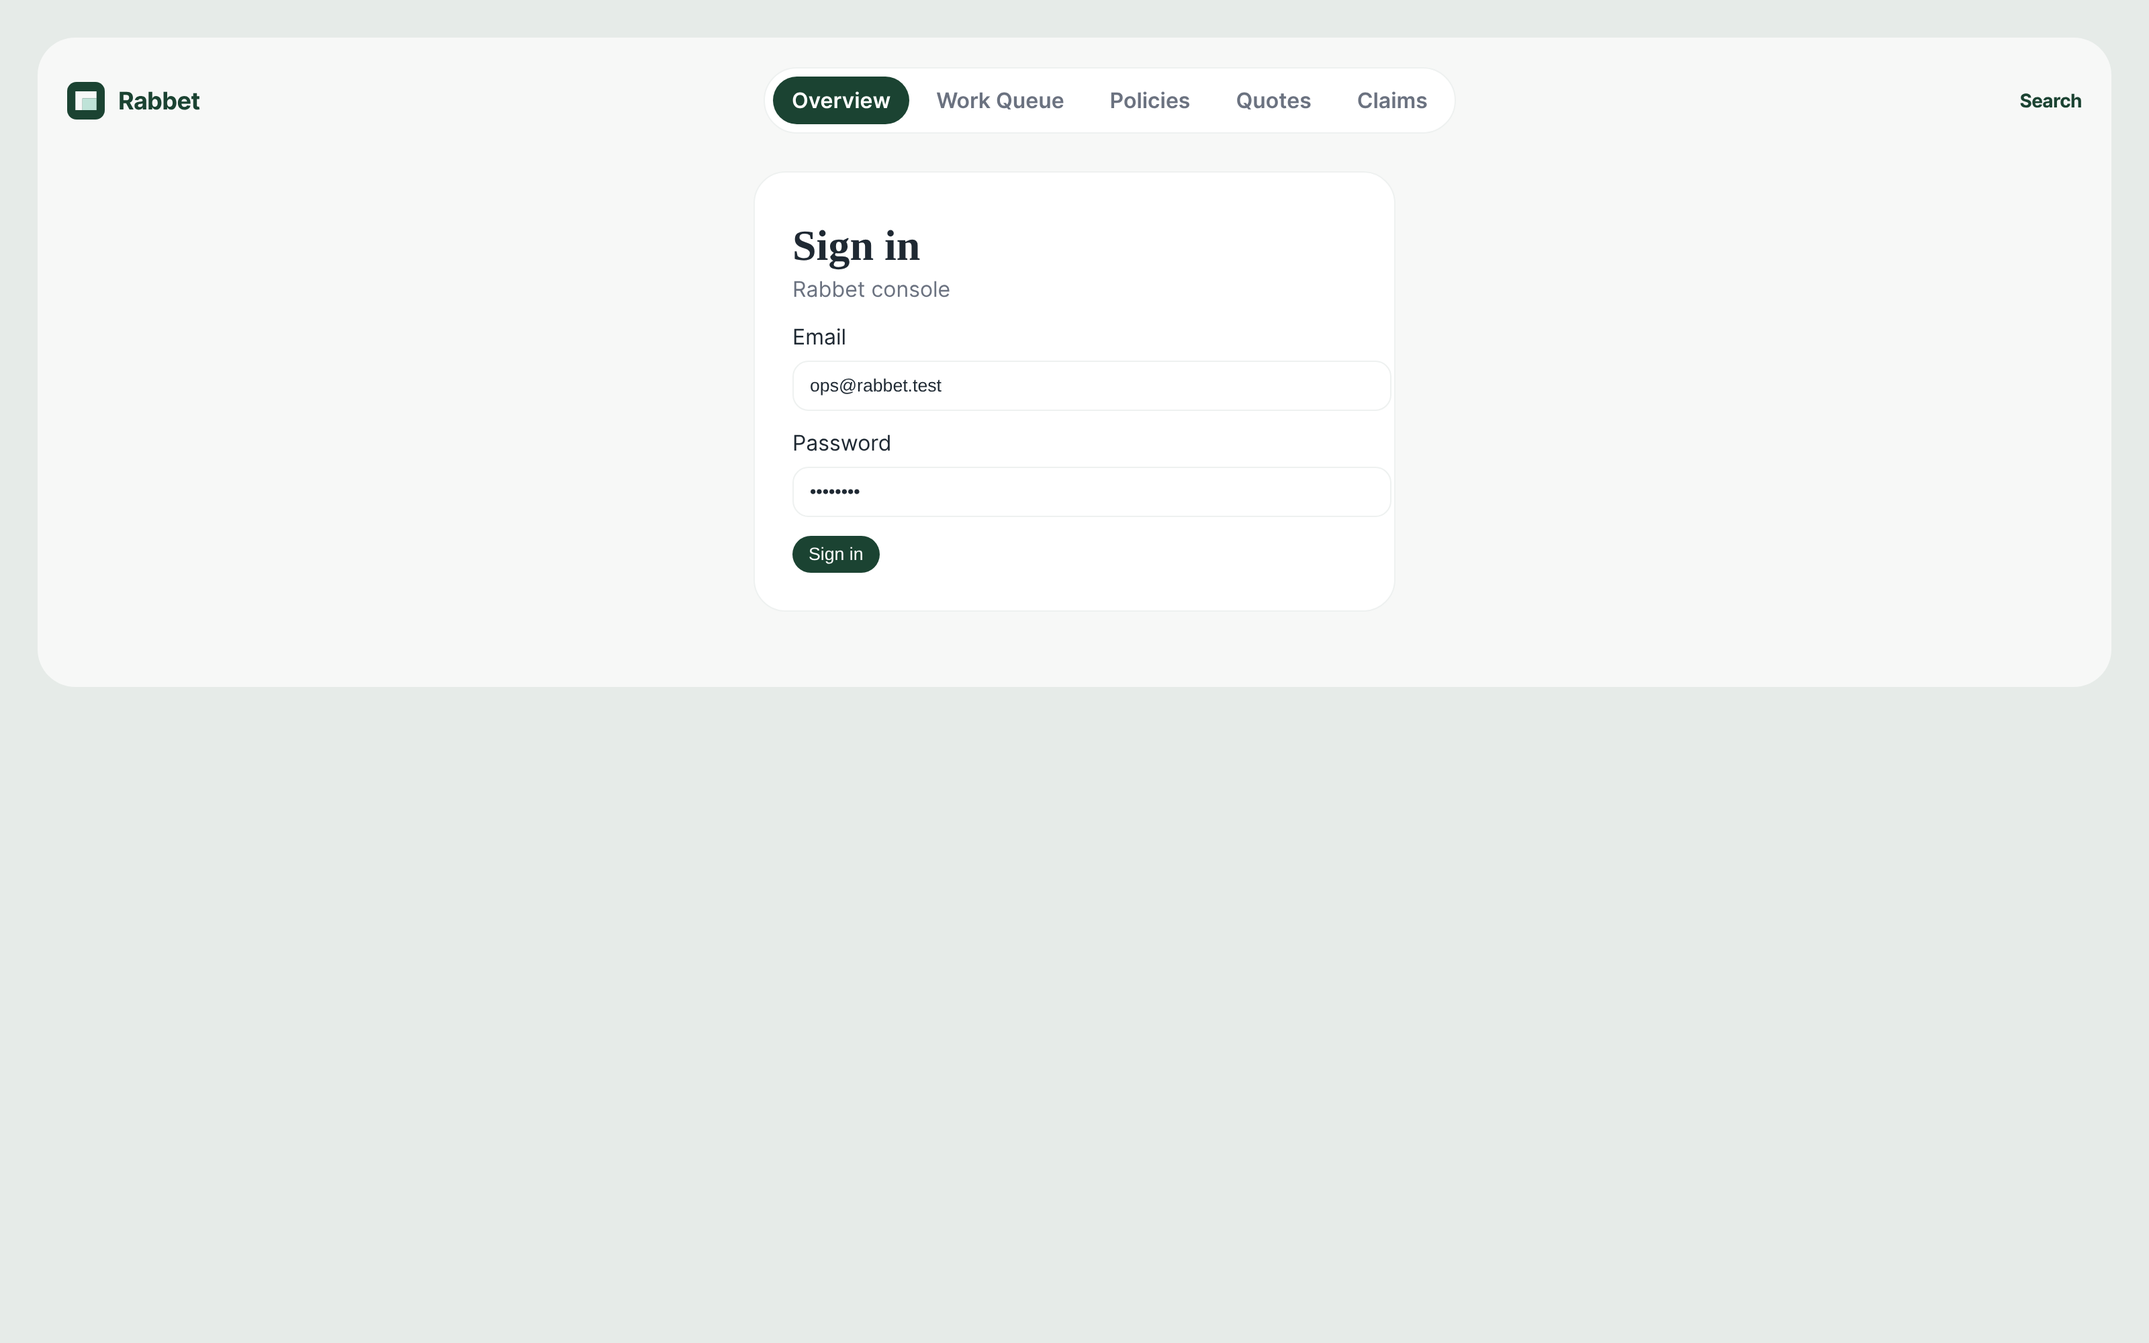
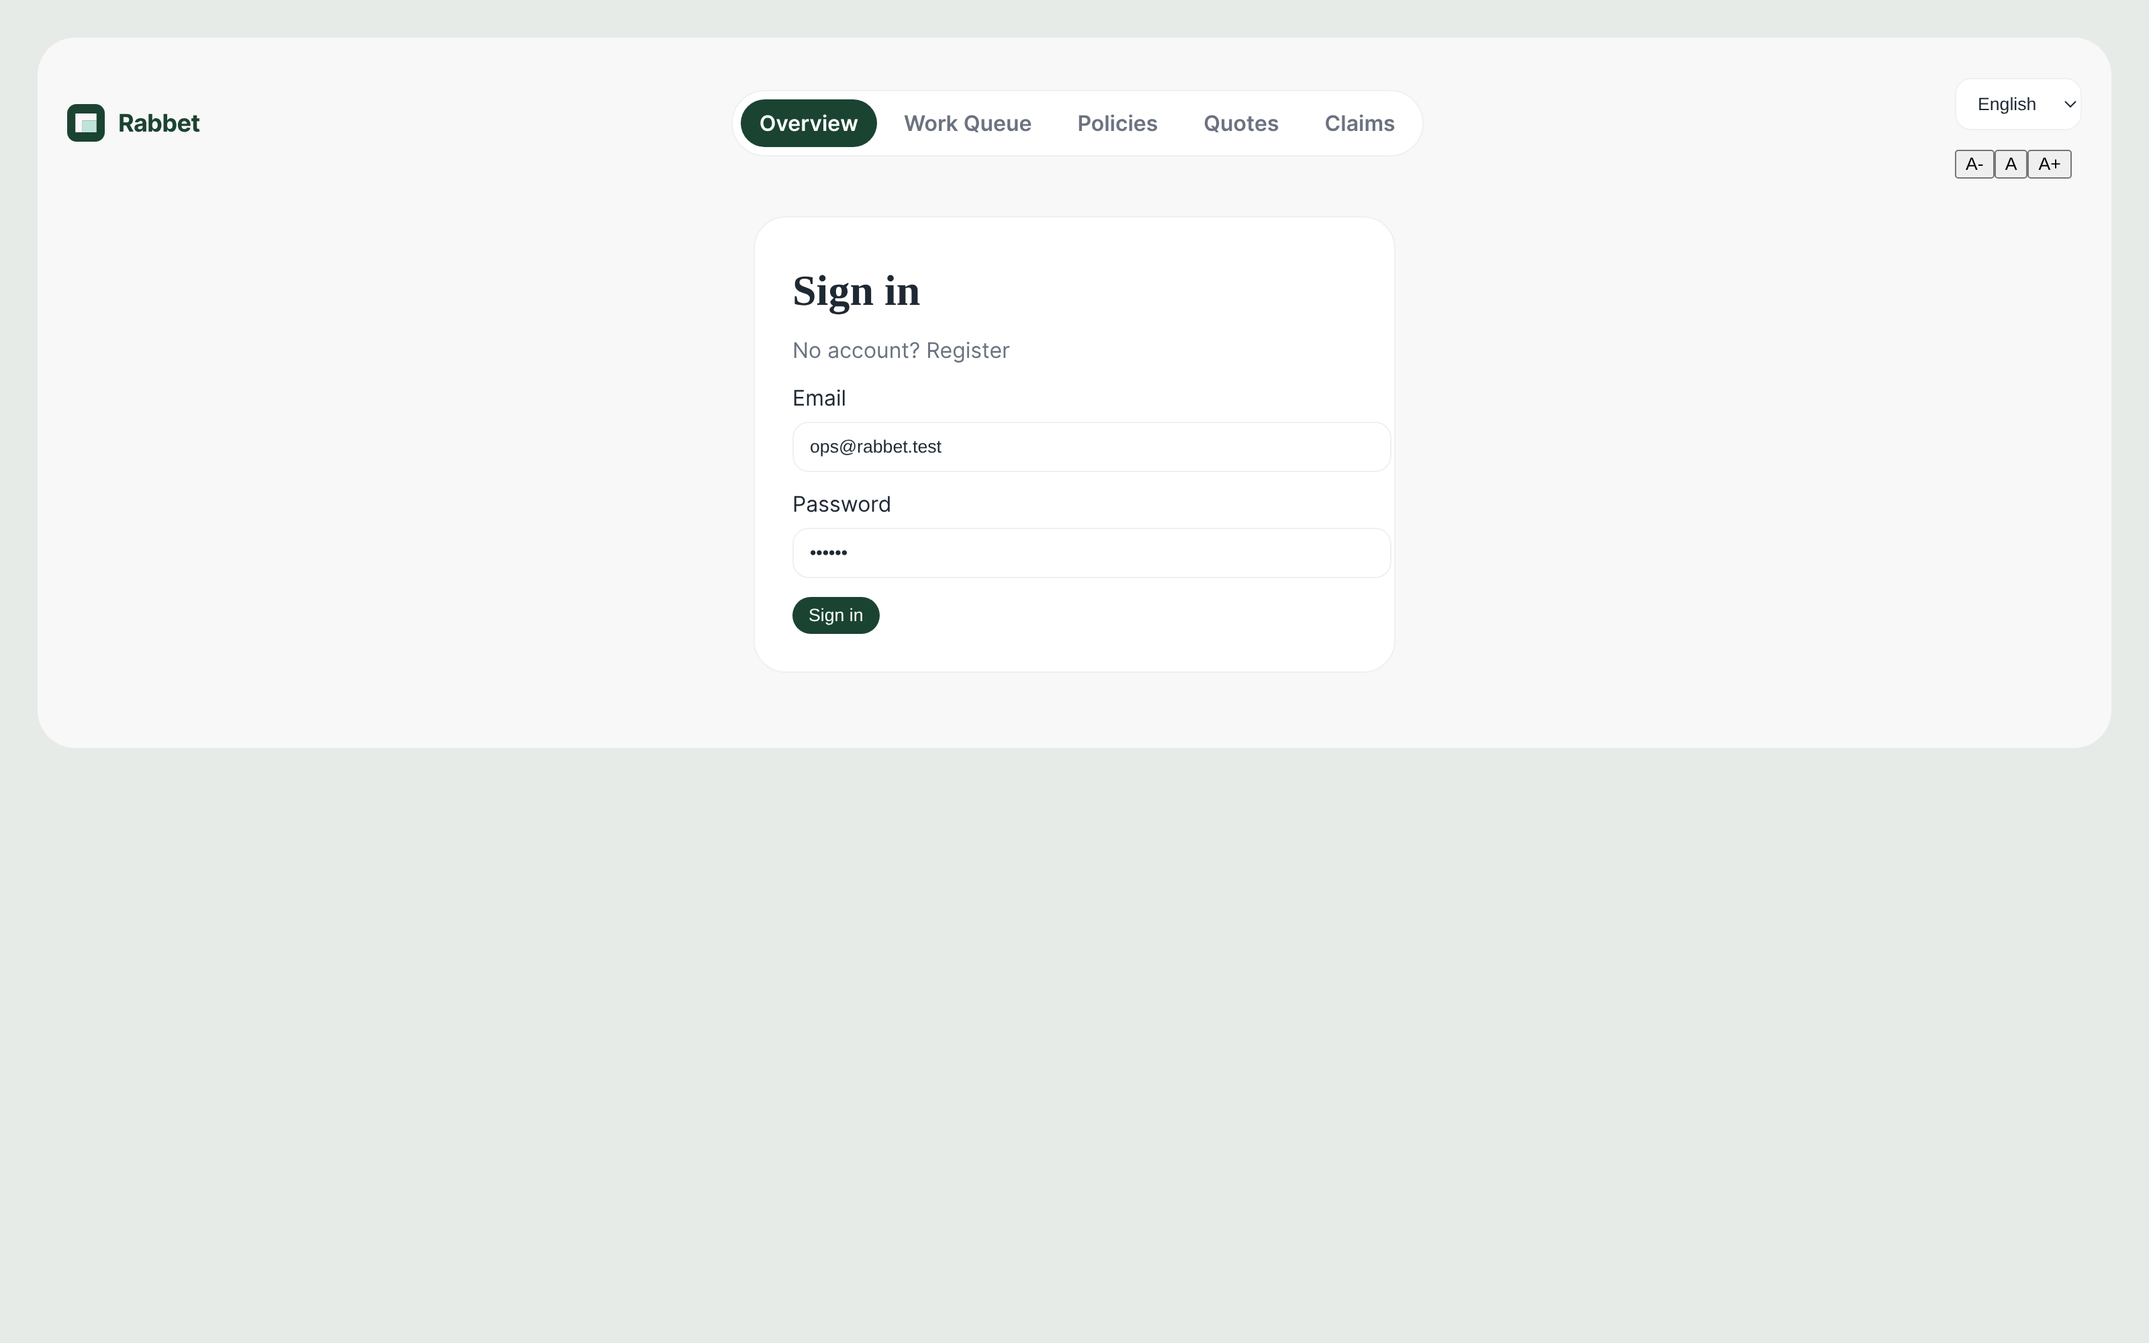
Show every Rabbet feature and a light/dark comparison

diff --git a/rabbet-theme/index.html b/rabbet-theme/index.html
@@ -4,127 +4,128 @@
   <meta charset="utf-8">
   <meta name="viewport" content="width=device-width, initial-scale=1">
   <title>Rabbet — Filament 5 theme and starter kit</title>
-  <meta name="description" content="Rabbet is a forest-green Filament 5 theme. Buy the shell, or the shell plus the operations starter kit. Four licenses.">
+  <meta name="description" content="Rabbet is a forest-green Filament 5 theme with a starter kit, language switcher, zoom, audit log, notifications, roles, and themed sign-in.">
   <link rel="canonical" href="https://skillbobby.github.io/spiggle/rabbet-theme/">
-  <meta property="og:title" content="Rabbet for Filament 5">
-  <meta property="og:description" content="Theme only, or theme plus starter kit. Four licenses.">
   <meta property="og:image" content="https://skillbobby.github.io/spiggle/rabbet-theme/screenshots/overview-light.png">
-  <link rel="preconnect" href="https://fonts.googleapis.com">
   <link href="https://fonts.googleapis.com/css2?family=Inter:wght@400;500;600;700&family=Source+Serif+4:opsz,wght@8..60,600&display=swap" rel="stylesheet">
   <style>
-    :root { --bg:#e7eeea; --card:#fff; --ink:#1c2822; --muted:#5f6f68; --line:#dfe7e3; --primary:#1b4332; --soft:#e7f3ec; }
+    :root { --bg:#e7eeea; --card:#fff; --ink:#1c2822; --muted:#5f6f68; --line:#dfe7e3; --primary:#1b4332; }
     * { box-sizing:border-box; }
     body { margin:0; font-family:Inter,system-ui,sans-serif; background:var(--bg); color:var(--ink); }
     a { color:var(--primary); }
     header, main { width:min(1120px,calc(100% - 32px)); margin:0 auto; }
-    header { display:flex; justify-content:space-between; align-items:center; padding:22px 0; }
-    .brand { display:flex; align-items:center; gap:10px; font-weight:700; color:var(--ink); text-decoration:none; }
-    .nav { display:flex; gap:18px; align-items:center; }
+    header { display:flex; justify-content:space-between; align-items:center; padding:22px 0; gap:16px; }
+    .brand, .nav { display:flex; align-items:center; gap:16px; }
+    .brand { font-weight:700; color:var(--ink); text-decoration:none; }
     .nav a { text-decoration:none; color:var(--muted); font-weight:600; }
     .btn { background:var(--primary); color:#fff; text-decoration:none; border-radius:999px; padding:10px 16px; font-weight:600; display:inline-block; }
-    .btn.ghost { background:#fff; color:var(--primary); border:1px solid var(--line); }
-    h1 { font-family:"Source Serif 4",Georgia,serif; font-size:clamp(2.4rem,5vw,4rem); letter-spacing:-.03em; line-height:1.05; margin:10px 0; }
-    .lead { color:var(--muted); font-size:1.08rem; max-width:40rem; }
-    .hero-actions { display:flex; gap:10px; flex-wrap:wrap; margin:22px 0; }
-    .frame { background:#fff; border:1px solid var(--line); border-radius:28px; padding:10px; box-shadow:0 24px 50px rgba(27,67,50,.08); }
-    .frame img { width:100%; height:auto; border-radius:20px; display:block; }
-    .switch { display:flex; gap:8px; margin:14px 0; }
-    .switch button { border:1px solid var(--line); background:#fff; border-radius:999px; padding:8px 14px; font-weight:600; cursor:pointer; }
-    .switch button.on { background:var(--primary); color:#fff; border-color:var(--primary); }
-    section { padding:64px 0 10px; }
-    h2 { font-family:"Source Serif 4",Georgia,serif; font-size:2rem; letter-spacing:-.03em; }
-    .grid { display:grid; grid-template-columns:repeat(auto-fit,minmax(240px,1fr)); gap:16px; }
-    article { background:var(--card); border:1px solid var(--line); border-radius:18px; padding:18px; }
-    .offers { display:grid; grid-template-columns:repeat(auto-fit,minmax(230px,1fr)); gap:14px; }
-    .offer { background:#fff; border:1px solid var(--line); border-radius:20px; padding:20px; display:flex; flex-direction:column; gap:8px; }
-    .offer.bundle { border-color:#1b4332; box-shadow:0 12px 30px rgba(27,67,50,.08); }
-    .price { font-size:2.1rem; margin:0; letter-spacing:-.03em; }
-    .tag { font-size:12px; font-weight:700; letter-spacing:.06em; text-transform:uppercase; color:#1b4332; }
+    h1, h2 { font-family:"Source Serif 4",Georgia,serif; letter-spacing:-.03em; }
+    h1 { font-size:clamp(2.4rem,5vw,4rem); line-height:1.05; margin:8px 0; }
+    .lead { color:var(--muted); max-width:42rem; }
+    .sim { margin:28px 0; background:#fff; border:1px solid var(--line); border-radius:28px; padding:14px; box-shadow:0 24px 50px rgba(27,67,50,.08); }
+    .sim-bar { display:flex; justify-content:space-between; gap:12px; align-items:center; margin-bottom:12px; }
+    .sim-bar strong { font-size:14px; }
+    .stage { position:relative; height:min(640px,62vw); overflow:hidden; border-radius:18px; background:#101614; user-select:none; }
+    .stage img { position:absolute; inset:0; width:100%; height:100%; object-fit:cover; object-position:top; }
+    .stage .dark { clip-path: inset(0 0 0 var(--split)); }
+    .handle { position:absolute; top:0; bottom:0; left:var(--split); width:28px; transform:translateX(-50%); cursor:ew-resize; display:grid; place-items:center; }
+    .handle span { width:28px; height:28px; border-radius:99px; background:#fff; border:1px solid var(--line); box-shadow:0 6px 16px rgba(0,0,0,.15); }
+    section { padding:54px 0 8px; }
+    .shot { width:100%; border-radius:22px; border:1px solid var(--line); margin:14px 0 8px; }
+    .grid, .offers { display:grid; grid-template-columns:repeat(auto-fit,minmax(230px,1fr)); gap:14px; }
+    article, .offer { background:var(--card); border:1px solid var(--line); border-radius:18px; padding:18px; }
+    .offer.bundle { border-color:var(--primary); }
+    .price { font-size:2rem; margin:6px 0; }
     pre { background:#17211d; color:#e7eee9; border-radius:16px; padding:16px; overflow:auto; }
-    footer { color:var(--muted); padding:40px 0 64px; }
+    footer { color:var(--muted); padding:36px 0 64px; }
   </style>
 </head>
 <body>
   <header>
-    <a class="brand" href="./">
-      <svg width="28" height="28" viewBox="0 0 32 32" aria-hidden="true"><rect width="32" height="32" rx="8" fill="#1B4332"/><path d="M7 8h18v6H13v10H7V8z" fill="#F7F8F7"/><path d="M13 14h12v10H13V14z" fill="#BFE3D8"/></svg>
-      Rabbet
-    </a>
-    <nav class="nav">
-      <a href="#shell">Theme</a>
-      <a href="#kit">Starter kit</a>
-      <a href="#offers">Offers</a>
-      <a class="btn" href="#offers">See licenses</a>
-    </nav>
+    <a class="brand" href="./"><svg width="28" height="28" viewBox="0 0 32 32" aria-hidden="true"><rect width="32" height="32" rx="8" fill="#1B4332"/><path d="M7 8h18v6H13v10H7V8z" fill="#F7F8F7"/><path d="M13 14h12v10H13V14z" fill="#BFE3D8"/></svg> Rabbet</a>
+    <nav class="nav"><a href="#shell">Theme</a><a href="#kit">Kit</a><a href="#offers">Offers</a><a class="btn" href="#offers">Licenses</a></nav>
   </header>
   <main>
-    <p class="tag">Filament 5 · one page, two products</p>
-    <h1>The forest-green shell, with the book of business if you want it.</h1>
-    <p class="lead">Rabbet is the theme. The starter kit is the same console with Overview, Work Queue, Policies, Quotes, and Claims. Buy the shell, or buy both.</p>
-    <div class="hero-actions">
-      <a class="btn" href="#offers">Four licenses</a>
-      <a class="btn ghost" href="https://github.com/skillbobby/Spiggle-Rabbet-Theme">Theme source</a>
-    </div>
-    <div class="switch" role="tablist">
-      <button class="on" id="light-btn" type="button">Light</button>
-      <button id="dark-btn" type="button">Dark</button>
-    </div>
-    <div class="frame">
-      <img id="hero" src="screenshots/overview-light.png" alt="Rabbet overview with the Rabbet mark, pill navigation, and metric cards" width="1600" height="1000">
+    <p>Filament 5 · theme or theme plus starter kit</p>
+    <h1>A forest-green shell, with the book of business if you want it.</h1>
+    <p class="lead">Drag the preview to compare light and dark. The same page covers the shell, the starter kit, language, zoom, audit, notifications, and roles.</p>
+    <div class="sim">
+      <div class="sim-bar"><strong>Preview</strong><span>Light on the left, dark on the right</span></div>
+      <div class="stage" id="stage" style="--split:50%">
+        <img src="screenshots/overview-light.png" alt="Rabbet light overview with the Rabbet mark">
+        <img class="dark" src="screenshots/overview-dark.png" alt="Rabbet dark overview with the Rabbet mark">
+        <div class="handle" id="handle" role="slider" aria-label="Compare light and dark" aria-valuemin="8" aria-valuemax="92" aria-valuenow="50" tabindex="0"><span></span></div>
+      </div>
     </div>
 
     <section id="shell">
-      <h2>Theme only</h2>
-      <p class="lead">Colors, Inter, Source Serif, pill navigation, light and dark, login, tables, and alerts. No models. No seed data.</p>
+      <h2>Theme</h2>
       <div class="grid">
-        <article><h3>Pill navigation</h3><p>Forest-green active item, quiet inactive items, Rabbet mark in the bar.</p></article>
-        <article><h3>Light and dark</h3><p>Canvas, shell, card, ink, and status colors for both schemes.</p></article>
-        <article><h3>Switcher ready</h3><p>Registers as <code>spiggle-rabbet-theme</code> and paints only while selected.</p></article>
+        <article><h3>Brand</h3><p>The mark and logo text render in the panel. Theme options replace the text and accept a PNG, WebP, JPG, or SVG icon.</p></article>
+        <article><h3>Language and zoom</h3><p>English, Español, Français, and Português in the session. A− / A / A+ zoom stays in the browser.</p></article>
+        <article><h3>List view</h3><p>Tables can switch to an alphabetical list without a second resource.</p></article>
+        <article><h3>Mobile</h3><p>The pill nav scrolls, controls stay at least 44px, and wide tables scroll sideways.</p></article>
       </div>
-      <div class="frame" style="margin-top:18px"><img src="screenshots/login.png" alt="Rabbet sign-in screen with the Rabbet mark" width="1600" height="1000"></div>
+      <img class="shot" src="screenshots/theme-options.png" alt="Rabbet theme options with logo text and icon">
+      <img class="shot" src="screenshots/list-view.png" alt="Rabbet table and list toggle">
+    </section>
+
+    <section>
+      <h2>Sign in and register</h2>
+      <p class="lead">The theme renders both auth pages. Each links to the other.</p>
+      <img class="shot" src="screenshots/login.png" alt="Rabbet sign in">
+      <img class="shot" src="screenshots/register.png" alt="Rabbet registration">
+    </section>
+
+    <section>
+      <h2>Audit, notifications, roles</h2>
+      <p class="lead">A resource change writes an audit row and a notification linked to that row. Roles gate audit, notifications, roles, and theme options. A user with no role is not locked out.</p>
+      <img class="shot" src="screenshots/audit.png" alt="Rabbet audit log">
+      <img class="shot" src="screenshots/notifications.png" alt="Rabbet notifications linked to audit events">
+      <img class="shot" src="screenshots/roles.png" alt="Rabbet roles and permissions">
     </section>
 
     <section id="kit">
       <h2>Starter kit</h2>
-      <p class="lead">The same shell, plus the operations screens and the reference book. It requires the theme and registers it if the panel does not already have it.</p>
-      <div class="grid">
-        <article><h3>Overview</h3><p>SLA at risk, backlog, underwriting blocked, and high-priority claims from the database.</p></article>
-        <article><h3>Work, policies, quotes</h3><p>Resources and queue pages, not hardcoded cards.</p></article>
-        <article><h3>Claims</h3><p>Breached, due soon, and unassigned tabs, with assign on the stored rows.</p></article>
-      </div>
-      <div class="frame" style="margin-top:18px"><img src="screenshots/claims.png" alt="Rabbet claims queue with the Rabbet mark" width="1600" height="1000"></div>
-      <div class="frame"><img src="screenshots/policies.png" alt="Rabbet policies table with the Rabbet mark" width="1600" height="1000"></div>
+      <p class="lead">Overview, work queue, policies, quotes, and claims. The kit registers the theme if the panel does not already have it.</p>
+      <img class="shot" src="screenshots/overview-light.png" alt="Rabbet starter kit overview">
     </section>
 
     <section id="offers">
       <h2>Four offers</h2>
-      <p class="lead">Theme only keeps the existing licenses. The bundle is the theme plus the starter kit, billed yearly, with one year of updates and security patches.</p>
       <div class="offers">
-        <article class="offer"><span class="tag">Theme only</span><p class="price">$19</p><strong>One project</strong><p>The shell. Existing license.</p><a class="btn" href="https://x.com/iamspiggle">Request</a></article>
-        <article class="offer"><span class="tag">Theme only</span><p class="price">$49</p><strong>Unlimited projects</strong><p>The shell, for projects you own. Existing license.</p><a class="btn" href="https://x.com/iamspiggle">Request</a></article>
-        <article class="offer bundle"><span class="tag">Bundle</span><p class="price">$29<span style="font-size:1rem">/yr</span></p><strong>One project</strong><p>Theme and starter kit. One year of updates and security patches.</p><a class="btn" href="https://x.com/iamspiggle">Request</a></article>
-        <article class="offer bundle"><span class="tag">Bundle</span><p class="price">$79<span style="font-size:1rem">/yr</span></p><strong>Unlimited projects</strong><p>Theme and starter kit for projects you own. One year of updates and security patches.</p><a class="btn" href="https://x.com/iamspiggle">Request</a></article>
+        <article class="offer"><p class="price">$19</p><strong>Theme, one project</strong><p>Existing license.</p></article>
+        <article class="offer"><p class="price">$49</p><strong>Theme, unlimited</strong><p>Projects you own. Existing license.</p></article>
+        <article class="offer bundle"><p class="price">$29/yr</p><strong>Bundle, one project</strong><p>Theme and starter kit. One year of updates and security patches.</p></article>
+        <article class="offer bundle"><p class="price">$79/yr</p><strong>Bundle, unlimited</strong><p>Theme and starter kit for projects you own. One year of updates and security patches.</p></article>
       </div>
-    </section>
-
-    <section id="install">
-      <h2>Install</h2>
-      <p>Theme only:</p>
+      <p><a class="btn" href="https://x.com/iamspiggle">Request a license</a></p>
       <pre><code>composer require spiggle/rabbet-theme
-->plugin(\Spiggle\FilamentRabbetTheme\RabbetThemePlugin::make())</code></pre>
-      <p>Bundle:</p>
-      <pre><code>composer require spiggle/rabbet-starter-kit
-php artisan rabbet:install --seed
-->plugin(\Spiggle\RabbetStarterKit\RabbetStarterKitPlugin::make())</code></pre>
+->plugin(\Spiggle\FilamentRabbetTheme\RabbetThemePlugin::make())
+
+composer require spiggle/rabbet-starter-kit
+php artisan rabbet:install --seed</code></pre>
     </section>
-    <footer>Checkout is not wired yet. Write to <a href="https://x.com/iamspiggle">@iamspiggle</a> for a license. Theme repo: <a href="https://github.com/skillbobby/Spiggle-Rabbet-Theme">Spiggle-Rabbet-Theme</a>. Kit repo: <a href="https://github.com/skillbobby/Spiggle-Rabbet-Starter-Kit">Spiggle-Rabbet-Starter-Kit</a>.</footer>
+    <footer>Checkout is not wired yet. Theme source: <a href="https://github.com/skillbobby/Spiggle-Rabbet-Theme">Spiggle-Rabbet-Theme</a>. Kit source: <a href="https://github.com/skillbobby/Spiggle-Rabbet-Starter-Kit">Spiggle-Rabbet-Starter-Kit</a>.</footer>
   </main>
   <script>
-    const hero = document.getElementById('hero');
-    const light = document.getElementById('light-btn');
-    const dark = document.getElementById('dark-btn');
-    light.addEventListener('click', () => { hero.src = 'screenshots/overview-light.png'; light.classList.add('on'); dark.classList.remove('on'); });
-    dark.addEventListener('click', () => { hero.src = 'screenshots/overview-dark.png'; dark.classList.add('on'); light.classList.remove('on'); });
+    const stage = document.getElementById('stage');
+    const handle = document.getElementById('handle');
+    const setSplit = (clientX) => {
+      const rect = stage.getBoundingClientRect();
+      const pct = Math.min(92, Math.max(8, ((clientX - rect.left) / rect.width) * 100));
+      stage.style.setProperty('--split', pct + '%');
+      handle.setAttribute('aria-valuenow', String(Math.round(pct)));
+    };
+    let drag = false;
+    handle.addEventListener('pointerdown', (event) => { drag = true; handle.setPointerCapture(event.pointerId); });
+    handle.addEventListener('pointermove', (event) => { if (drag) setSplit(event.clientX); });
+    handle.addEventListener('pointerup', () => { drag = false; });
+    handle.addEventListener('keydown', (event) => {
+      const current = Number(handle.getAttribute('aria-valuenow'));
+      if (event.key === 'ArrowLeft') setSplit(stage.getBoundingClientRect().left + ((current - 4) / 100) * stage.clientWidth);
+      if (event.key === 'ArrowRight') setSplit(stage.getBoundingClientRect().left + ((current + 4) / 100) * stage.clientWidth);
+    });
   </script>
 </body>
 </html>
